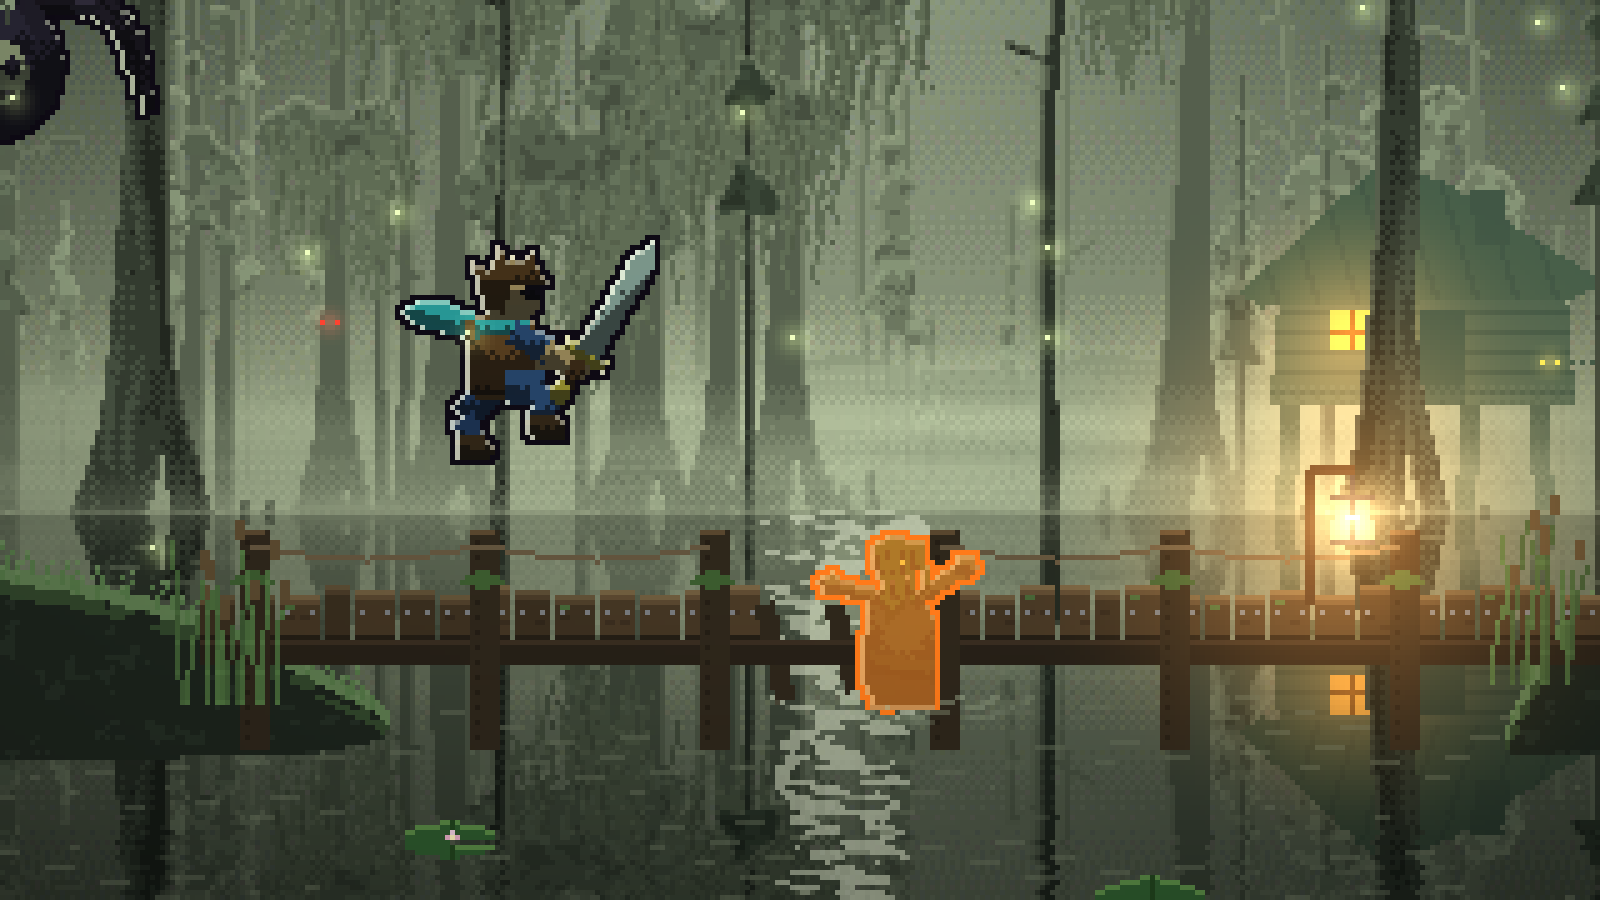
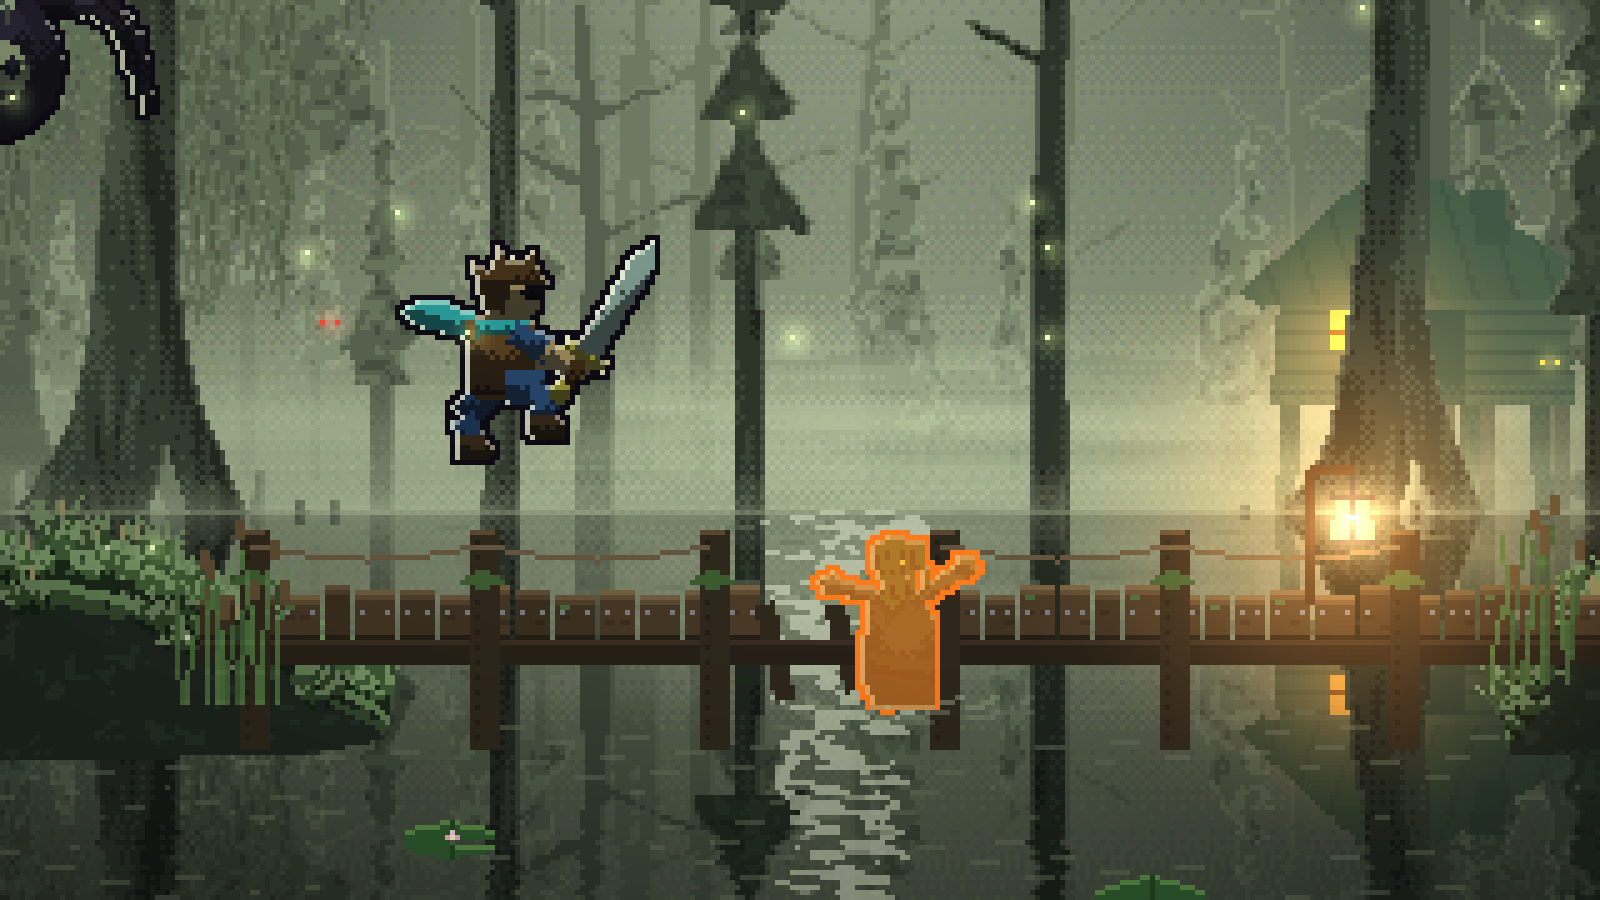
ART13b: swamp example, chunkier trees and detailed grass tufts
Claude-Session: https://claude.ai/code/session_018E1RbT7Agev2Psz4WcAtF7

diff --git a/tools/art/final_swamp.py b/tools/art/final_swamp.py
@@ -50,7 +50,7 @@ def leafy(m, seed, amount=0.7):
 
 def pine(x, base, h, w, rng):
     """A thin conifer: a straight trunk and ragged tiers of needles getting smaller to the top."""
-    trunk = [taper([(x, base + 2), (x + rng.normal(0, 0.6), base - h)], max(1.2, w * 0.35), 1.0, 2)]
+    trunk = [taper([(x, base + 2), (x + rng.normal(0, 0.6), base - h)], max(1.6, w * 0.55), 1.4, 2)]
     clumps = []
     tiers = int(rng.integers(5, 9))
     for k in range(tiers):
@@ -88,7 +88,7 @@ def cypress(x, base, h, w, rng):
         s = rng.choice([-1, 1])
         ln = w * rng.uniform(2.5, 6)
         ex, ey = x + s * ln, y - ln * rng.uniform(0.3, 0.8)
-        trunk.append(taper([(x, y + 4), (x + s * ln * 0.5, y - ln * 0.2), (ex, ey)], w * 0.45, 1.2, 4))
+        trunk.append(taper([(x, y + 4), (x + s * ln * 0.5, y - ln * 0.2), (ex, ey)], w * 0.65, 1.8, 4))
         # an irregular crown: several small clumps scattered along the limb, not one umbrella
         for j in range(int(rng.integers(3, 6))):
             tt = rng.uniform(0.35, 1.0)
@@ -180,7 +180,7 @@ def layer(img, items, d, seed, kind_weights, moss_on=True, rim=0.6, leaf_tint=C(
             trunks += t
             clumps += c
         elif k == 'snag':
-            trunks += snag(x, base, h, w * 0.6, rng)
+            trunks += snag(x, base, h, w * 0.9, rng)
         else:
             t, c, a = cypress(x, base, h, w, rng)
             trunks += t
@@ -199,6 +199,49 @@ def layer(img, items, d, seed, kind_weights, moss_on=True, rim=0.6, leaf_tint=C(
     return tm | cm
 
 
+def grass_tufts(img, top, grass_col, seed, density=0.5, hmin=3, hmax=12, d=0.8):
+    """Detailed grass: tufts of 4-9 curved blades in three tones (dark base, mid, a moonlit tip), seed heads, little
+    ferns and a few pale flowers."""
+    rng = np.random.default_rng(seed)
+    ys, xs = np.nonzero(top)
+    if not len(xs):
+        return
+    dark = mix(grass_col * 0.55, NEAR, 0.3)
+    midc = grass_col
+    tip = mix(grass_col * 1.35, SKY_LO * 1.1, 0.35)
+    order = rng.permutation(len(xs))
+    for i in order[:int(len(xs) * density / 3)]:
+        bx, by = xs[i], ys[i]
+        n = int(rng.integers(4, 10))
+        base_h = rng.uniform(hmin, hmax)
+        for b in range(n):
+            hgt = base_h * rng.uniform(0.5, 1.1)
+            spread = (b - n / 2) * rng.uniform(0.5, 1.2)
+            curve = rng.uniform(-0.8, 0.8)
+            steps = int(hgt) + 1
+            for k in range(steps):
+                t = k / max(1, steps - 1)
+                x = int(round(bx + spread * t + curve * t * t * hgt * 0.4))
+                y = int(round(by - k))
+                if 0 <= x < W and 0 <= y < H:
+                    img[y, x] = dark if t < 0.35 else (midc if t < 0.8 else tip)
+        r = rng.random()
+        if r < 0.12:                                                # a seed head
+            x, y = int(bx + rng.uniform(-2, 2)), int(by - base_h * 1.2)
+            if 1 <= y < H - 1 and 0 <= x < W:
+                img[y - 1:y + 2, x] = mix(C('#8a7a4a'), SKY_LO, 0.3)
+        elif r < 0.2:                                               # a little fern frond
+            for k in range(6):
+                for side in (-1, 1):
+                    x, y = int(bx + side * (3 - k * 0.4)), int(by - k * 1.4 - 1)
+                    if 0 <= x < W and 0 <= y < H:
+                        img[y, x] = midc * 0.95
+        elif r < 0.25:                                              # a pale flower
+            x, y = int(bx), int(by - base_h * 0.8)
+            if 0 <= x < W and 0 <= y < H:
+                img[y, x] = mix(C('#e8e4c8'), SKY_LO, 0.4)
+
+
 def bank(img, pts, seed, d, grass_col=C('#3e5a34')):
     """A mossy mound of earth at the water's edge: dark sides, a mossy top lit by the sky, grass and roots."""
     m = mask([spoly(*pts, n=6)])
@@ -211,16 +254,11 @@ def bank(img, pts, seed, d, grass_col=C('#3e5a34')):
     fill(img, top2 & (n > 0.35), mix(grass_col, base, 0.35))
     fill(img, top, mix(grass_col * 1.25, SKY_LO, 0.2))
     fill(img, m & (n > 0.7) & ~top2, base * 1.25)
-    rng = np.random.default_rng(seed)
-    ys, xs = np.nonzero(top)
-    for i in range(0, len(xs), 3):                                  # grass blades
-        if rng.random() < 0.5:
-            hgt = int(rng.integers(2, 7))
-            for k in range(hgt):
-                y = ys[i] - k
-                x = xs[i] + (k // 3) * (1 if rng.random() < 0.5 else -1)
-                if 0 <= y < H and 0 <= x < W:
-                    img[y, x] = mix(grass_col * 1.3, SKY_LO, 0.25 if k == hgt - 1 else 0.05)
+    surface = m & ~np.roll(m, 1, 0)
+    grass_tufts(img, surface, grass_col * 0.8, seed + 100, 1.6, 5, 16, d)          # the back row, taller
+    grass_tufts(img, surface, grass_col, seed, 2.4, 3, 11, d)
+    lower = m & ~np.roll(m, 9, 0) & ~surface
+    grass_tufts(img, lower & (fbm(XX / 12, YY / 5, 2, seed) > 0.5), grass_col * 0.7, seed + 200, 0.6, 2, 7, d)
     return m
 
 
@@ -245,17 +283,17 @@ def scene():
     ridge = WATER - 18 - 10 * fbm(XX[0] / 40, np.zeros(W), 3, 3) * 2
     rm = YY > ridge[None, :]
     fill(img, rm, depth_col(0.1))
-    items = [(rng.uniform(-10, W + 10), WATER - 8, rng.uniform(30, 110), rng.uniform(2, 4)) for _ in range(70)]
+    items = [(rng.uniform(-10, W + 10), WATER - 8, rng.uniform(30, 110), rng.uniform(3.5, 6)) for _ in range(52)]
     layer(img, items, 0.12, 11, [0.6, 0.35, 0.05], moss_on=False, rim=0.3)
     mist(img, WATER - 20, 26, 0.75, 3)
-    items = [(rng.uniform(-10, W + 10), WATER - 2, rng.uniform(70, 170), rng.uniform(3, 5)) for _ in range(34)]
+    items = [(rng.uniform(-10, W + 10), WATER - 2, rng.uniform(70, 170), rng.uniform(5.5, 8.5)) for _ in range(26)]
     layer(img, items, 0.3, 12, [0.5, 0.3, 0.2], rim=0.45)
     hut(img, 404, WATER - 52, 0.55)
     mist(img, WATER - 8, 20, 0.6, 4)
     # mid cypresses standing in the water
-    items = [(70, WATER + 2, 200, 5), (180, WATER + 2, 230, 6), (250, WATER + 1, 150, 4), (430, WATER + 2, 210, 5), (530, WATER + 1, 180, 5)]
+    items = [(70, WATER + 2, 200, 8.5), (180, WATER + 2, 230, 9.5), (250, WATER + 1, 150, 7), (430, WATER + 2, 210, 8.5), (530, WATER + 1, 180, 8)]
     layer(img, items, 0.52, 21, [0.0, 0.25, 0.75], rim=0.55)
-    items = [(x, WATER + 1, rng.uniform(120, 200), 5) for x in (30, 300, 360, 470, 610)]
+    items = [(x, WATER + 1, rng.uniform(120, 200), 8.5) for x in (30, 300, 360, 470, 610)]
     layer(img, items, 0.6, 23, [0.85, 0.15, 0.0], moss_on=False, rim=0.5)
     for (x, y, c) in ((214, 214, '#ff3a2a'), (458, 222, '#ffc84a'), (98, 228, '#ff3a2a')):     # eyes in the dark
         img[y, x] = img[y, x + 3] = C(c)
@@ -278,7 +316,7 @@ def scene():
     fill(img, ripl, mix(SKY_LO, NEAR, 0.4), 0.5)
     img[WATER, :] = mix(img[WATER, :], MIST, 0.35)
     # big cypresses at the sides, in front of the water
-    items = [(110, WATER + 6, 330, 9), (560, WATER + 8, 340, 10)]
+    items = [(110, WATER + 6, 330, 14), (560, WATER + 8, 340, 15)]
     layer(img, items, 0.78, 31, [0.0, 0.0, 1.0], rim=0.7)
     # mossy banks and the half-sunken boardwalk between them
     bank(img, [(-20, 300), (-10, 266), (60, 258), (140, 262), (196, 276), (214, 300)], 41, 0.82)
@@ -299,7 +337,7 @@ def scene():
     # front: two huge old trees with buttress roots, cropped by the frame, and grass silhouettes
     rng2 = np.random.default_rng(51)
     for (x, side, sd) in ((-8, 1, 61), (650, -1, 62)):
-        S, cl_, an = old_tree(x + side * 6, 304, 330, 34, rng2, side)
+        S, cl_, an = old_tree(x + side * 10, 304, 330, 48, rng2, side)
         tm = mask(S)
         bark_dark(img, tm, C('#141a14'), sd)
         cm = leafy(mask(cl_), sd)
@@ -312,7 +350,10 @@ def scene():
             bx = cxg + rng4.normal(0, 14)
             hgt = rng4.uniform(8, 26)
             lean = rng4.uniform(-6, 6)
-            fill(img, mask([taper([(bx, H + 1), (bx + lean * 0.5, H - hgt * 0.6), (bx + lean, H - hgt)], 2.2, 0.6, 3)]), NEAR * 0.75)
+            bm = mask([taper([(bx, H + 1), (bx + lean * 0.5, H - hgt * 0.6), (bx + lean, H - hgt)], 2.4, 0.6, 3)])
+            fill(img, bm, NEAR * 0.8)
+            e = bm & ~np.roll(bm, -1 if bx < MOON[0] else 1, 1)
+            fill(img, e & (YY < H - hgt * 0.35), mix(C('#4a6a40'), SKY_LO, 0.3), 0.8)
     # characters: backlit by the moon (dim, with a rim), warmed by the lantern
     key = {'dir': (0.0, -0.7, 0.5), 'col': (0.42, 0.48, 0.4)}
     amb = (0.18, 0.22, 0.2)
